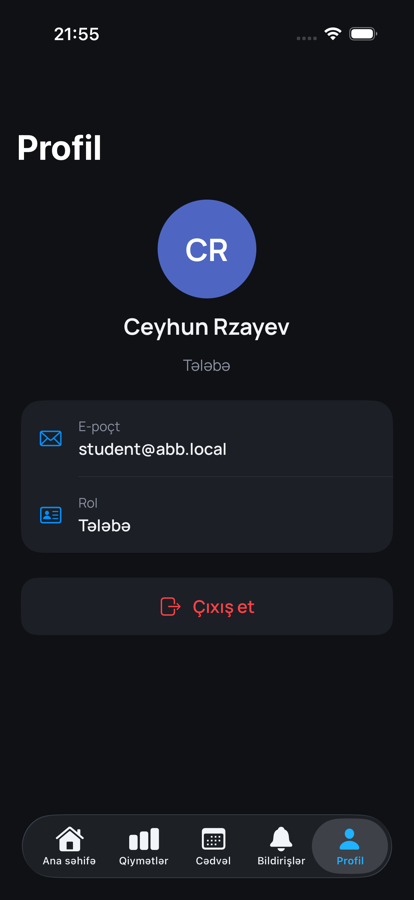
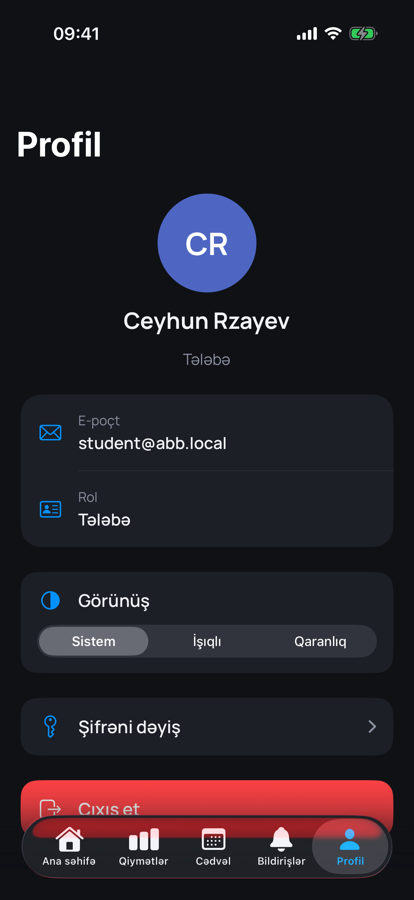
Document the appearance setting and retake profile screenshots

diff --git a/README.md b/README.md
@@ -51,7 +51,7 @@ The Demo Day plan, demo accounts and answers to "why this architecture, what did
 - **Grades (student).** Shows the average and overall score, a progress bar for each module, and the category breakdown of a module (Homework, Final, Project…).
 - **Schedule (student).** Upcoming or past lessons grouped by day, with time and room.
 - **Notifications (student).** Announcements for all students and for the student's own group.
-- **Profile.** Shows the user's details and signs out (with confirmation) through `/auth/logout`.
+- **Profile.** Shows the user's details, lets the user choose the appearance (System, Light or Dark), changes the password and signs out (with confirmation) through `/auth/logout`.
 - **Employee home.** An academy card, the number of active students, teachers, groups and announcements, and the latest announcements with a link to all of them.
 - **Students (employee).** Search by name, email or group, filter by status (All / Active / Inactive) and by course, see each student's group and course, open details, and activate or deactivate an account.
 - **Groups (employee).** Search and filter by course, see study progress, open a group to see its students, and create or edit a group in a sheet: course, teacher, up to 2 mentors, start date and an end date picked in a calendar. Names are limited to 20 characters, and closing a form with unsaved changes asks for confirmation. If new dates leave lessons outside the group, the app asks before they are removed; an exam with uploaded scores cannot be left outside.
@@ -66,7 +66,7 @@ The Demo Day plan, demo accounts and answers to "why this architecture, what did
 - **Exams (teacher, mentor).** Schedule an exam (title, date, time, room): it appears in the students' schedule and they get a notice. After the exam, upload a file with `email` and `score` columns.
 - **For students.** Cancelled lessons and exams are marked in the schedule, the next-lesson card skips cancelled lessons, notices for their group appear in notifications, and **Qiymətlər** shows monthly task and exam scores.
 - **Paging.** The students, groups, teachers and announcements lists load 20 items at a time as you scroll. Search waits for typing to pause, and responses that arrive out of order are ignored.
-- **Dark mode.** Every color comes from the asset catalog and has a dark variant.
+- **Dark mode.** Every color comes from the asset catalog and has a dark variant. In the profile, every user can follow the phone's setting or always use the light or dark look; the choice is saved and applied to the whole app.
 - **Loading, error and empty states.** Every screen uses one shared `AsyncContentView` driven by a `ViewState` enum, with retry on error and pull-to-refresh.
 
 ## Tech stack
@@ -78,7 +78,7 @@ The Demo Day plan, demo accounts and answers to "why this architecture, what did
 | State management | Observation (`@Observable`, `@State`, `@Bindable`, `@Environment`) |
 | Networking | `URLSession` with `async/await`, generic `NetworkService`, typed `Endpoint`s, bearer token injection, multipart upload |
 | Navigation | `NavigationStack` with value-based `navigationDestination`, `sheet`, `TabView`, `confirmationDialog`, `fileImporter`, `searchable` |
-| Persistence | Keychain (auth token), `UserDefaults` (last login email) |
+| Persistence | Keychain (auth token), `UserDefaults` (last login email, chosen appearance) |
 | Testing | Swift Testing (unit tests), XCTest / XCUITest (UI tests) |
 | CI | GitHub Actions: every push and pull request runs all tests |
 
@@ -114,9 +114,9 @@ abb_campusUITests/  # UI tests
 
 ## Tests
 
-- **Unit tests** (`abb_campusTests`, 204 tests) cover the auth view models (`LoginViewModel`, `ForgotPasswordViewModel`, `RoleSelectionViewModel`), `ProfileViewModel`, all student view models (home with next-lesson selection, grades, module grades, schedule grouping, attendance, notifications), all employee view models (dashboard, students, teachers and groups lists and details, create and edit group, student and schedule Excel import, group schedule, create, edit and delete announcements), all teacher view models (home, groups, schedule, cancelling and restoring lessons, monthly attendance and task scores with month switching, exams and the exam form), the student's monthly scores, `AuthenticationState`, `ValidationHelper`, paging and request building for `EmployeeEndpoint`, `TeachingEndpoint` and `LessonEndpoint`. They check both success and error cases. Every service is replaced by a mock through its protocol, so the tests never call the real API.
+- **Unit tests** (`abb_campusTests`, 207 tests) cover the auth view models (`LoginViewModel`, `ForgotPasswordViewModel`, `RoleSelectionViewModel`), `ProfileViewModel`, all student view models (home with next-lesson selection, grades, module grades, schedule grouping, attendance, notifications), all employee view models (dashboard, students, teachers and groups lists and details, create and edit group, student and schedule Excel import, group schedule, create, edit and delete announcements), all teacher view models (home, groups, schedule, cancelling and restoring lessons, monthly attendance and task scores with month switching, exams and the exam form), the student's monthly scores, `AuthenticationState`, `ValidationHelper`, paging and request building for `EmployeeEndpoint`, `TeachingEndpoint` and `LessonEndpoint`. They check both success and error cases. Every service is replaced by a mock through its protocol, so the tests never call the real API.
 - **Concurrency and network tests** check that a slow, older response never overwrites a newer one, that a cancelled refresh keeps the data on screen, and that server errors, timeouts, offline mode and invalid JSON show a clear message. The network tests use a stubbed `URLProtocol` instead of the real server.
-- **UI tests** (`abb_campusUITests`) cover the login flow (role selection, the validation error, the wrong password error, a successful login → home → logout, and opening the forgot password sheet) the student flow (home → attendance, grades → module details) and the employee flow (dashboard → students → Inactive filter → student details, group → import screen, and group → schedule → schedule import), the teacher flow (cancelling a lesson with a reason, scheduling an exam, opening the attendance upload), plus two navigation stress tests (20 push/back cycles, rapid tab switching and returning from the background). The app starts with `-ui-testing`, so the tests use stub services.
+- **UI tests** (`abb_campusUITests`) cover the login flow (role selection, the validation error, the wrong password error, a successful login → home → logout, and opening the forgot password sheet) the student flow (home → attendance, grades → module details, switching between dark and light in the profile, checked on the screen's pixels) and the employee flow (dashboard → students → Inactive filter → student details, group → import screen, and group → schedule → schedule import), the teacher flow (cancelling a lesson with a reason, scheduling an exam, opening the attendance upload), plus two navigation stress tests (20 push/back cycles, rapid tab switching and returning from the background). The app starts with `-ui-testing`, so the tests use stub services.
 
 Run all tests from the terminal:
 

diff --git a/docs/DEMO.md b/docs/DEMO.md
@@ -39,7 +39,7 @@ Bu sənəd Demo Day üçündür: nəyi hansı ardıcıllıqla göstərmək, hans
    - Ana səhifə və siyahılar: axtarış, filtr, səhifələmə.
    - **Qruplar → IOS-01 → Dərs cədvəli → Excel-dən cədvəl idxal et** → `cedvel_sehvli.xlsx`: səhvlər sətir-sətir göstərilir, cədvəl dəyişmir. (Səhvsiz fayl bu qrupun cədvəlini yeniləyər. Göstərmək istəsəniz, `cedvel.xlsx` yalnız 05–30.10 aralığını əvəz edir.)
    - **Elanlar:** prioritet, auditoriya, linklər; redaktə və silmə.
-5. **Dark mode (15 san.).** Control Center → Dark Mode: bütün ekranlar uyğunlaşır.
+5. **Dark mode (15 san.).** Profil → **Görünüş**: «Qaranlıq» və «İşıqlı» bütün tətbiqi dərhal dəyişir, «Sistem» telefonun ayarına qayıdır. Seçim yadda qalır.
 6. **GitHub (30 san.).** Actions-da son yaşıl run, README-dəki şəkillər, mənalı commitlər.
 
 ## 3. «Niyə bu arxitekturanı seçdin?»
@@ -65,7 +65,7 @@ Bu sənəd Demo Day üçündür: nəyi hansı ardıcıllıqla göstərmək, hans
 | Unit testlər (Swift Testing) | 200+ | Bütün ViewModel-lər: uğur və xəta halları, validasiya, səhifələmə, axtarış, importlar, ləğv/bərpa, ay keçidləri, imtahan forması |
 | Konkurentlik testləri | daxildir | Gec gələn köhnə cavab yenisini əzmir; ləğv olunmuş yeniləmə ekranı boşaltmır (`PendingCalls` ilə determinik, `sleep` yoxdur) |
 | Şəbəkə xətaları | daxildir | 500 (JSON və HTML), 429, timeout, internet yoxdur, səhv JSON, ləğv, təkrar cəhd (`URLProtocol` stub) |
-| UI testlər (XCUITest) | 14 | Giriş axını, tələbə, işçi və müəllim ssenariləri, naviqasiya stress testi (20 dəfə aç/bağla, tab dəyişmə, fon rejimi) |
+| UI testlər (XCUITest) | 15 | Giriş axını, tələbə, işçi və müəllim ssenariləri, profildə dark/light keçidi (ekran pikselləri ilə yoxlanılır), naviqasiya stress testi (20 dəfə aç/bağla, tab dəyişmə, fon rejimi) |
 | Backend (PHPUnit) | 129 | API, icazələr, importlar, tarix qaydaları, sorğu limitləri |
 | CI | — | GitHub Actions hər push və pull request-də bütün testləri işlədir |
 
@@ -78,6 +78,6 @@ Bu sənəd Demo Day üçündür: nəyi hansı ardıcıllıqla göstərmək, hans
 - **«Excel faylında səhv olsa nə olur?»** Hamısı və ya heç biri: bir sətirdə belə səhv varsa, heç nə yazılmır və hər səhvin sətir nömrəsi ilə səbəbi göstərilir.
 - **«Cədvəli bir dəfəyə yükləmək lazımdır?»** Xeyr. Fayl yalnız öz tarix aralığını əvəz edir, cədvəli ay-ay yükləmək olar. Ləğv olunmuş dərslərin statusu itmir.
 - **«Qrupun tarixlərini dəyişsəm?»** Kənarda qalan dərslər varsa, tətbiq əvvəlcə soruşur. Balları yüklənmiş imtahan kənarda qalırsa, dəyişikliyə icazə verilmir.
-- **«Persistence harada?»** Token Keychain-də, son istifadə olunan e-poçt UserDefaults-da saxlanılır.
+- **«Persistence harada?»** Token Keychain-də, son istifadə olunan e-poçt və seçilmiş görünüş (Sistem / İşıqlı / Qaranlıq) UserDefaults-da saxlanılır.
 - **«Mentor nə edə bilir?»** Müəllimin bacardığı hər şeyi, amma yalnız mentoru olduğu qruplarda.
 - **«Təhlükəsizlik?»** Bearer token, rol əsaslı icazələr (policy). Login, şifrə bərpası və API üçün sorğu limitləri var.
